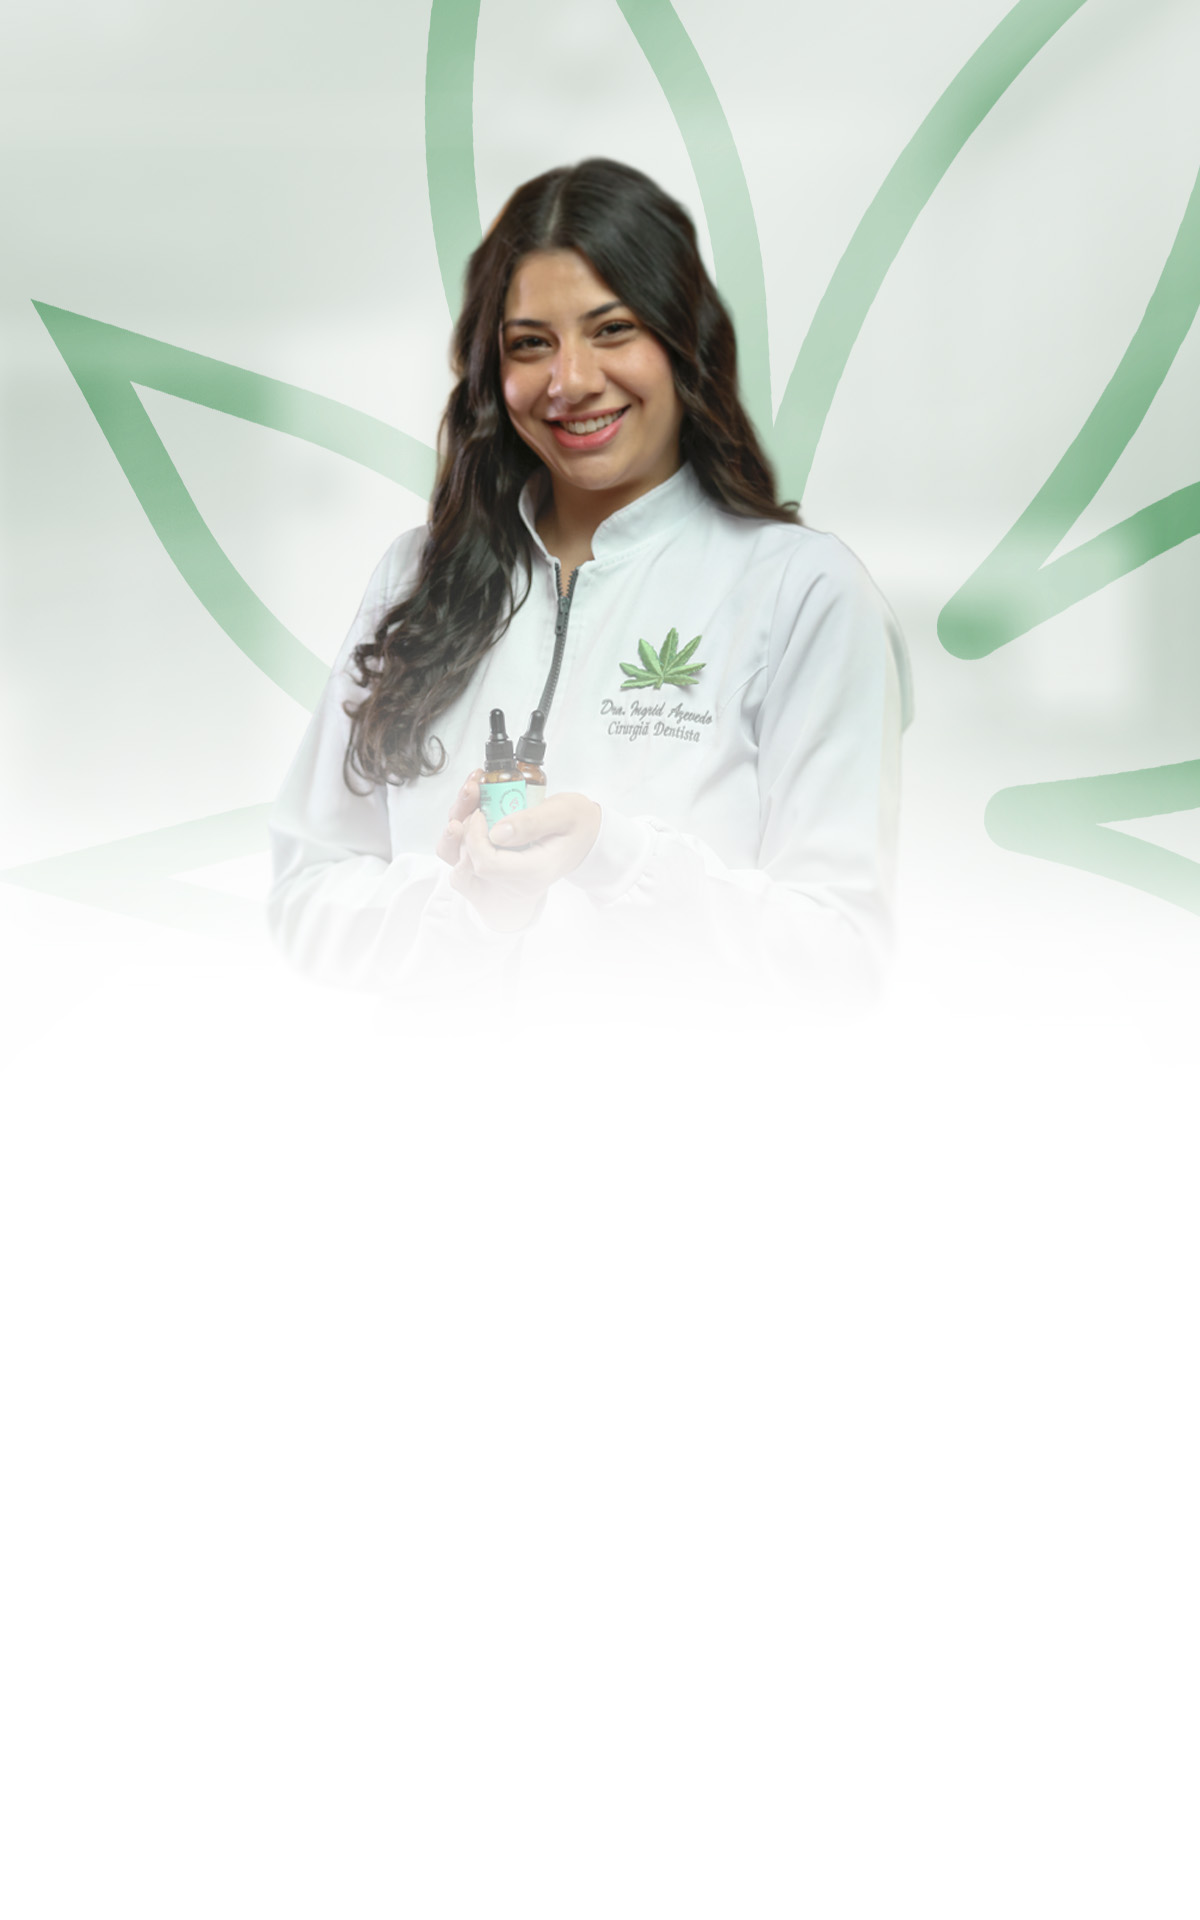
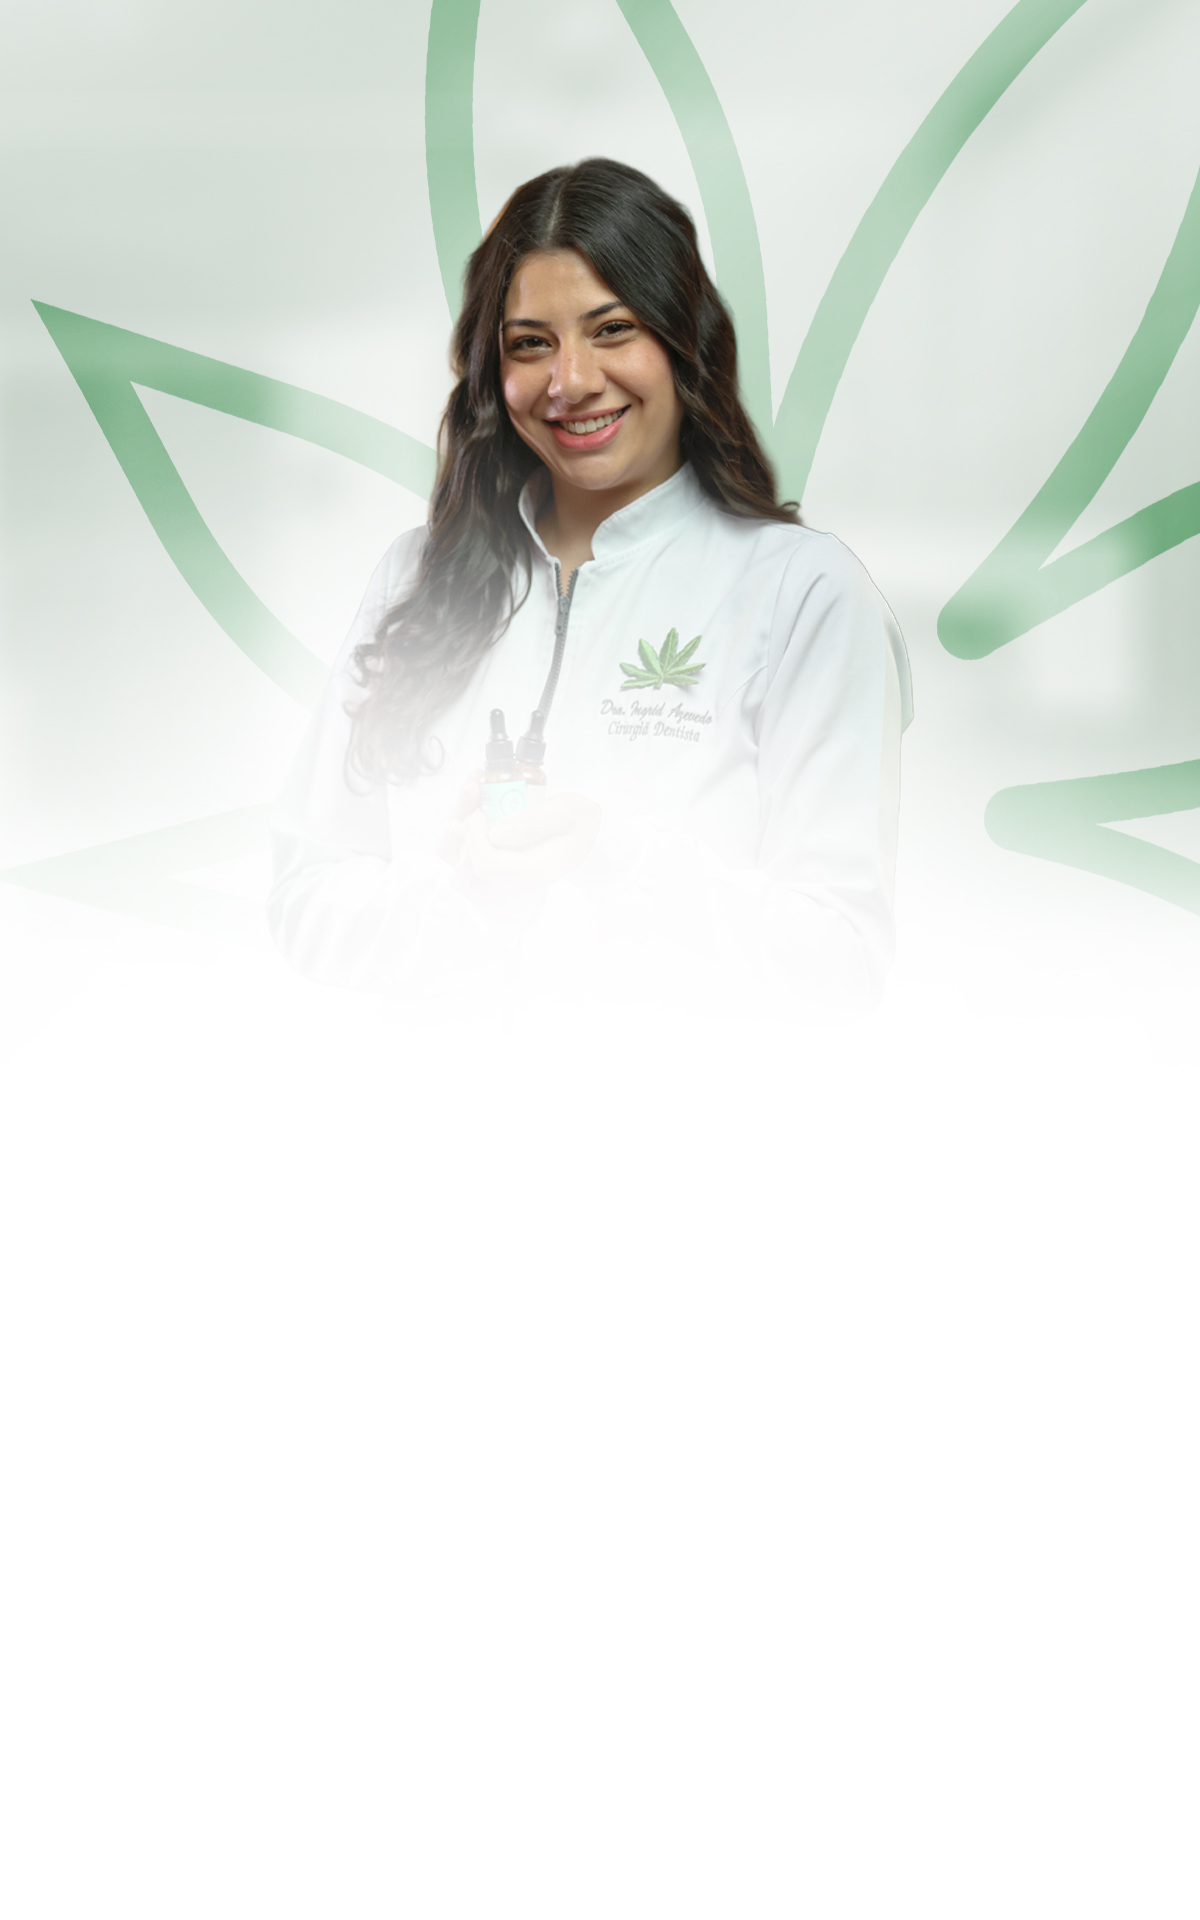
feat: ajustes no hero e habilitar link website
- Aumentar padding top do hero para mostrar rosto da doutora
- Adicionar drop-shadow branco no título do hero para legibilidade
- Atualizar imagem mobile do hero
- Habilitar link "Website" na página de links

Changed region(s): [[0.2467, 0.25, 0.4933, 0.4688], [0.4933, 0.3125, 0.6475, 0.4062], [0.185, 0.3125, 0.2467, 0.375]]

diff --git a/src/components/landing/Hero.tsx b/src/components/landing/Hero.tsx
@@ -19,14 +19,14 @@ export function Hero() {
       />
 
       {/* Content */}
-      <Container className="relative z-10 pt-40 pb-16 md:pt-32 md:pb-24">
+      <Container className="relative z-10 pt-64 pb-16 md:pt-60 md:pb-24">
         <div className="md:w-1/2">
           <div className="text-center md:text-left space-y-6">
             <div className="inline-flex items-center px-4 py-2 rounded-full border border-text/15 bg-white/60 backdrop-blur-sm text-[10px] font-bold tracking-[0.2em] uppercase text-text">
               Prescritora Canábica ANVISA
             </div>
 
-            <h1 className="text-4xl sm:text-5xl xl:text-6xl font-extrabold leading-[1.08] tracking-tight text-text">
+            <h1 className="text-4xl sm:text-5xl xl:text-6xl font-extrabold leading-[1.08] tracking-tight text-text drop-shadow-[0_8px_60px_rgba(255,255,255,1)]">
               {heroContent.title}
             </h1>
 

diff --git a/src/data/site-config.ts b/src/data/site-config.ts
@@ -24,10 +24,8 @@ export const siteConfig = {
     },
     {
       label: "Website",
-      url: "#",
+      url: "/",
       icon: "website" as const,
-      disabled: true,
-      disclaimer: "Em breve",
     },
   ] satisfies LinkItem[],
 };
